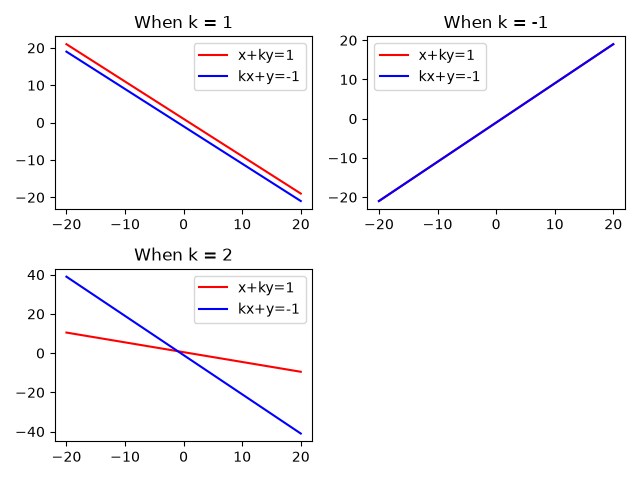
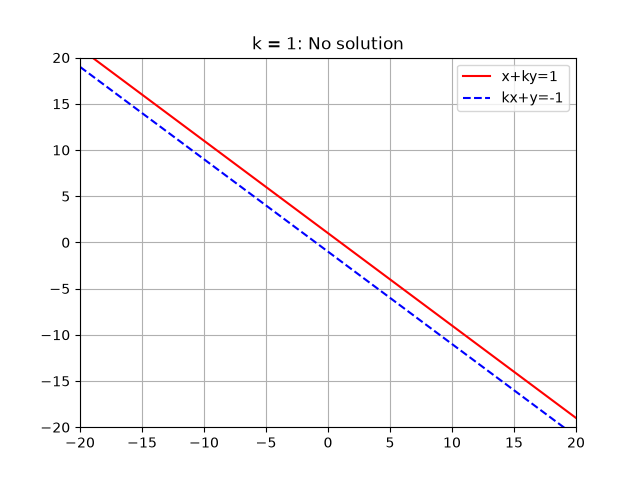
done

diff --git a/05-10-2026/Q23_CS1-withsolution.py b/05-10-2026/Q23_CS1-withsolution.py
@@ -1,0 +1,44 @@
+import numpy as np
+import matplotlib.pyplot as plt
+
+k = float(input("Enter k: "))
+
+# Rank test: x + ky = 1, kx + y = -1
+A = np.array([[1, k], [k, 1]])
+b = np.array([[1], [-1]])
+Ab = np.hstack([A, b])
+n = 2
+
+rA = np.linalg.matrix_rank(A)
+rAb = np.linalg.matrix_rank(Ab)
+
+if rA < rAb:
+    result = "No solution"
+elif rA == n:
+    sol = np.linalg.solve(A, b).ravel()
+    result = f"Unique solution ({sol[0]:.2f}, {sol[1]:.2f})"
+else:
+    result = "Infinitely many solutions"
+
+print(f"rank A = {rA}, rank [A|b] = {rAb} -> {result}")
+
+# Plot
+x = np.linspace(-20, 20, 400)
+
+if k != 0:
+    plt.plot(x, (1 - x)/k, label='x+ky=1', color='red')
+else:
+    plt.axvline(1, label='x+ky=1', color='red')  # k=0 gives x = 1 (vertical line)
+
+plt.plot(x, -1 - k*x, label='kx+y=-1', color='blue', linestyle='--')
+
+if rA == rAb == n:
+    plt.plot(sol[0], sol[1], 'ko', label='solution')
+
+plt.title(f'k = {k:g}: {result}')
+plt.xlim(-20, 20)
+plt.ylim(-20, 20)
+plt.grid(True)
+plt.legend()
+plt.savefig('fig.png')
+
